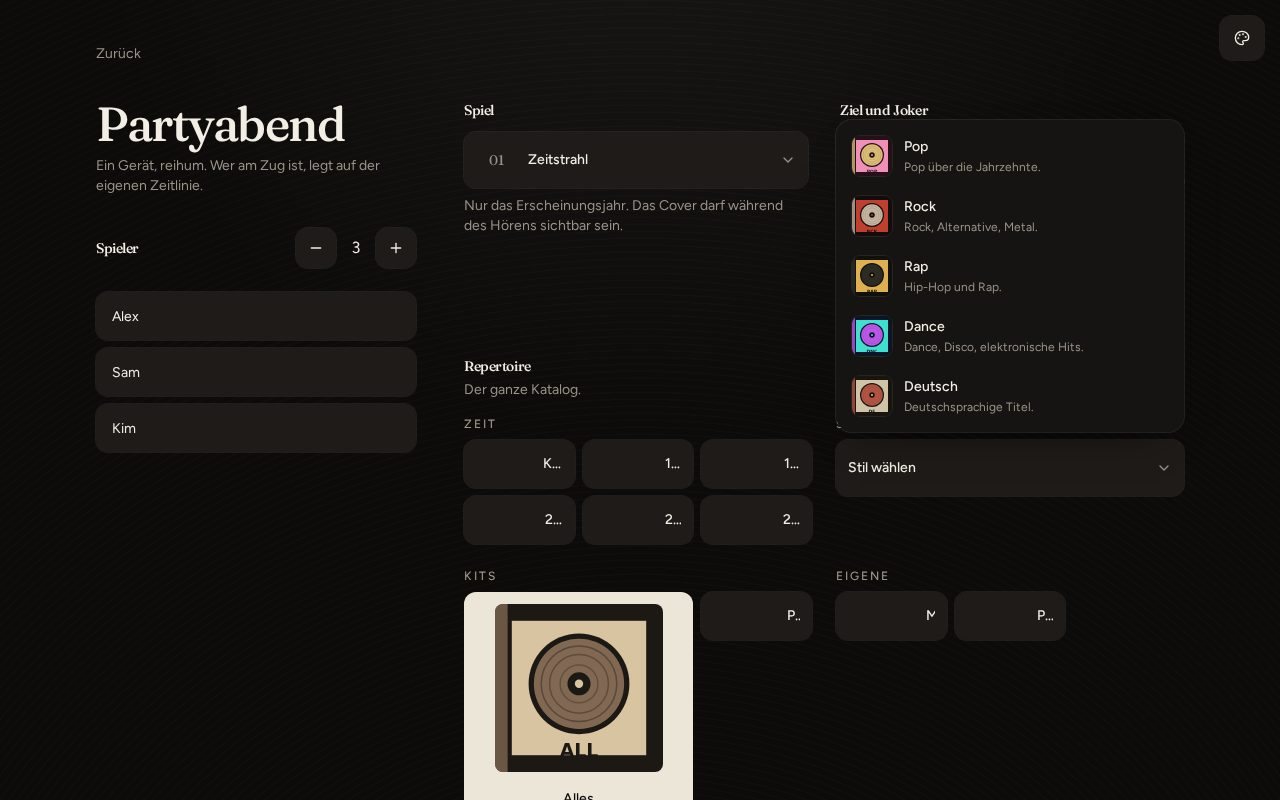
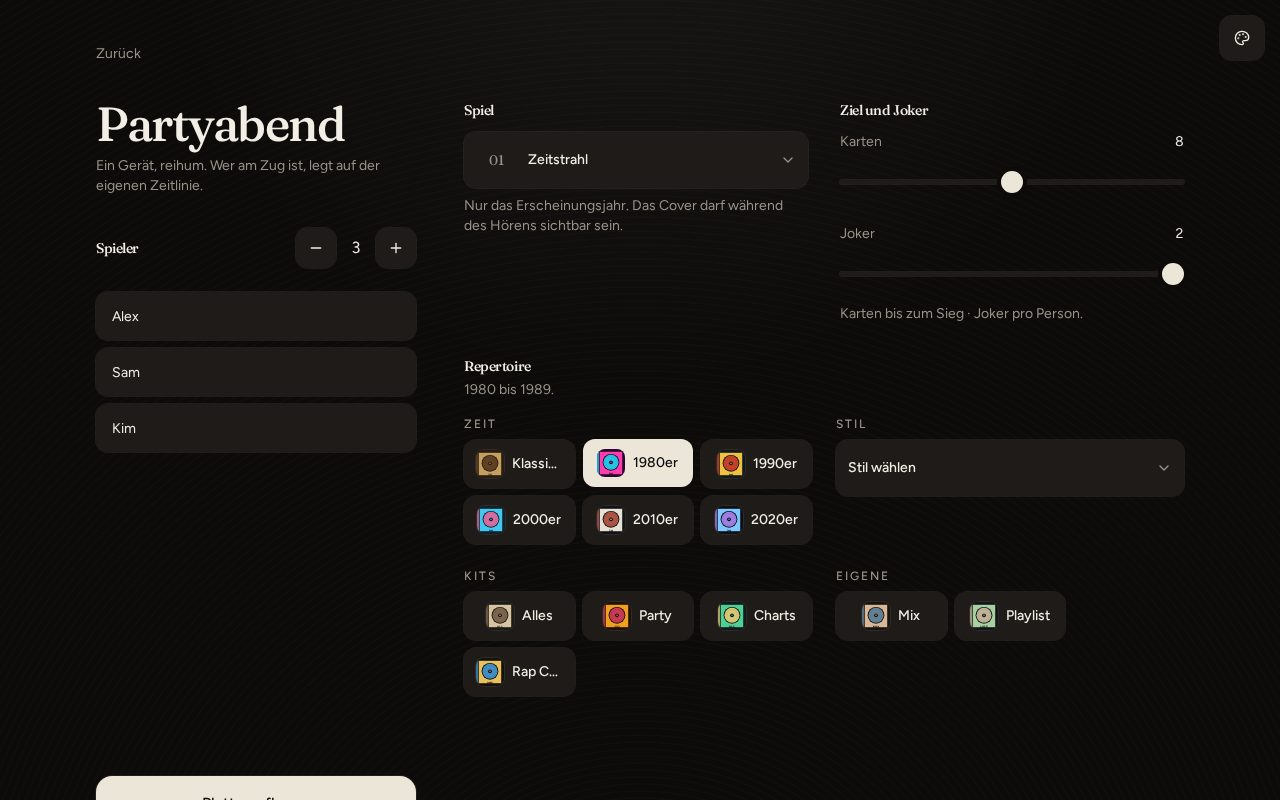
Packs wieder mit kleinem Cover am Knopf.
Die großen aufklappenden Sleeve sind raus, das Raster bleibt stehen.

diff --git a/src/components/game/game-options.tsx b/src/components/game/game-options.tsx
@@ -67,15 +67,12 @@ function SleeveChip({
       }}
       className={cn(
         CHIP,
-        "overflow-hidden",
         selected
-          ? "pack-selected col-span-2 h-auto min-h-12 flex-col items-stretch py-3 text-primary-fg bg-primary"
+          ? "text-primary-fg bg-primary"
           : "bg-raised text-fg shadow-border hover:bg-surface",
       )}
     >
-      <span className={cn("pack-sleeve", selected && "is-open")}>
-        <span className="pack-sleeve-inner flex justify-center">{art}</span>
-      </span>
+      {art}
       <span className="truncate">{label}</span>
     </button>
   );
@@ -315,14 +312,9 @@ function MixField({
             id,
             label: GENRE_LABELS[id],
             blurb: GENRE_BLURBS[id],
-            art: <GenreArt id={id} className="size-10" />,
+            art: <GenreArt id={id} className="size-7" />,
           }))}
         />
-        <div className="pack-sleeve is-open mt-3">
-          <div className="pack-sleeve-inner flex justify-center">
-            <GenreArt id={value.mixGenre} className="pack-cover" />
-          </div>
-        </div>
       </div>
     </div>
   );
@@ -418,16 +410,9 @@ export function GameOptions({ value, onChange, online }: GameOptionsProps) {
                       id,
                       label: ERA_LABELS[id],
                       blurb: ERA_BLURBS[id],
-                      art: <PackArt id={id} className="size-10" />,
+                      art: <PackArt id={id} className="size-7" />,
                     }))}
                   />
-                  {STIL_IDS.includes(value.era) ? (
-                    <div className="pack-sleeve is-open mt-3">
-                      <div className="pack-sleeve-inner flex justify-center">
-                        <PackArt id={value.era} className="pack-cover" />
-                      </div>
-                    </div>
-                  ) : null}
                 </div>
               ) : (
                 <div className="mt-2 grid grid-cols-2 gap-2 sm:grid-cols-3">
@@ -437,7 +422,7 @@ export function GameOptions({ value, onChange, online }: GameOptionsProps) {
                       packId={id}
                       selected={value.era === id}
                       label={ERA_LABELS[id]}
-                      art={<PackArt id={id} className="pack-cover" />}
+                      art={<PackArt id={id} />}
                       onSelect={() => onChange({ era: id })}
                     />
                   ))}

diff --git a/README.md b/README.md
@@ -26,7 +26,7 @@ Die Auswahl klappt als Blatt von unten auf. Spiel, Stil und Genre liegen als gan
 
 ## Rechner
 
-Auf dem großen Schirm stehen Namen links, Repertoire rechts. Packs öffnen ein Sleeve. Modi haben Name und Kurztext.
+Auf dem großen Schirm stehen Namen links, Repertoire rechts. Jedes Pack hat ein kleines Cover am Knopf. Modi haben Name und Kurztext.
 
 ![Partyabend](docs/shots/setup.jpg)
 
